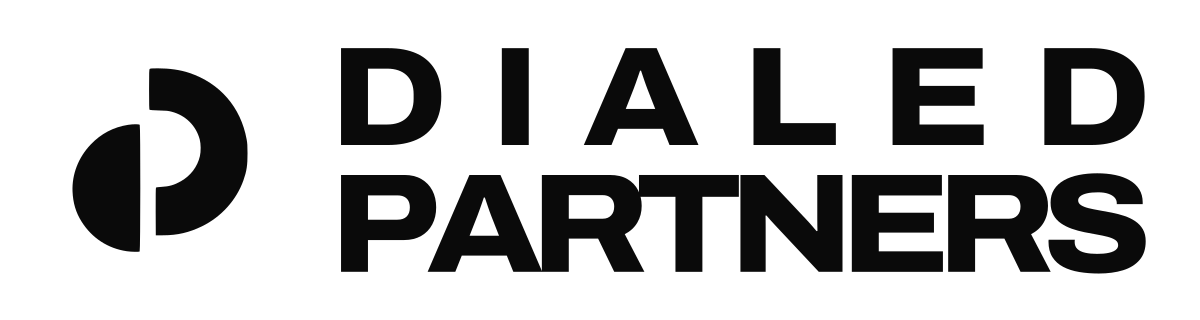
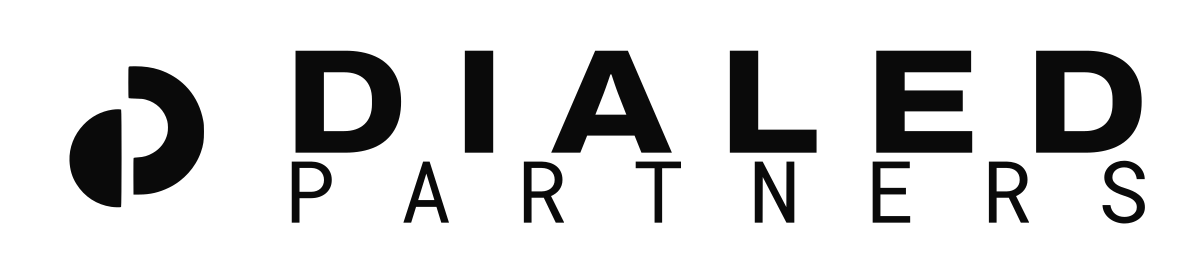
Rev stacked lockup: Roboto Mono PARTNERS counterline, bigger mark
PARTNERS is now set in Roboto Mono 400 CAPS at 0.60x the DIALED cap
height and +0.753em letter-spacing (precisely +0.7532em of Roboto Mono
em) so both lines still terminate at the same x. Reads as a lighter,
measured counterline under DIALED - archery-reference feel - instead of
a second Archivo bold line. DIALED stays Archivo 800 / 112% caps at
+0.300em (unchanged).

Site header img width updated to match the new stacked lockup aspect
ratio (viewBox 8087x1843 -> ~4.39:1, header img is 211x48 at desktop).

diff --git a/contact.html b/contact.html
@@ -27,7 +27,7 @@
 <header class="site-header">
   <div class="wrap">
     <a class="brand" href="index.html" aria-label="DialedPartners home">
-      <img class="brand-lockup" src="assets/img/dialedpartners-lockup-stacked-bone.svg" alt="DialedPartners" width="180" height="48">
+      <img class="brand-lockup" src="assets/img/dialedpartners-lockup-stacked-bone.svg" alt="DialedPartners" width="211" height="48">
     </a>
     <nav class="nav" aria-label="Primary">
       <a href="index.html#about">About</a>

diff --git a/index.html b/index.html
@@ -27,7 +27,7 @@
 <header class="site-header">
   <div class="wrap">
     <a class="brand" href="index.html" aria-label="DialedPartners home">
-      <img class="brand-lockup" src="assets/img/dialedpartners-lockup-stacked-bone.svg" alt="DialedPartners" width="180" height="48">
+      <img class="brand-lockup" src="assets/img/dialedpartners-lockup-stacked-bone.svg" alt="DialedPartners" width="211" height="48">
     </a>
     <nav class="nav" aria-label="Primary">
       <a href="#about">About</a>
